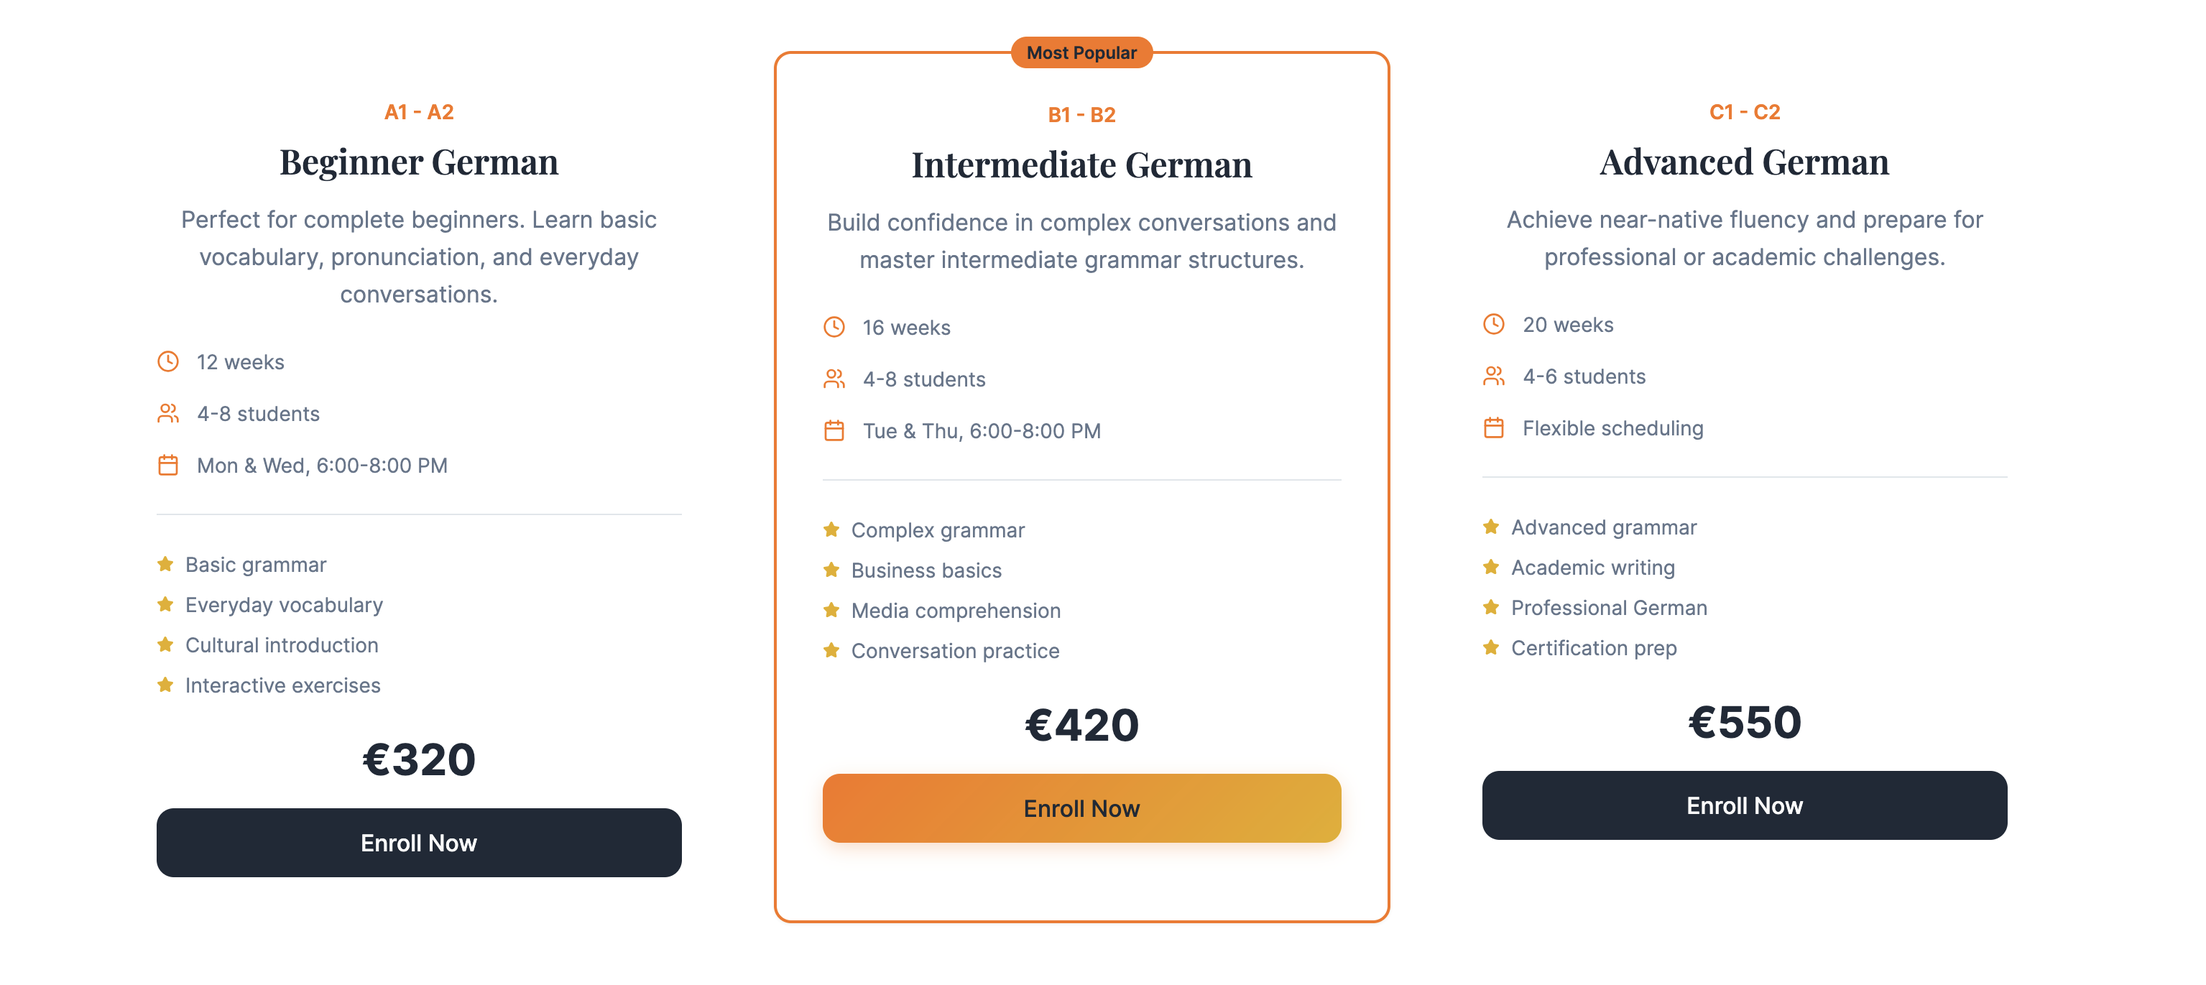
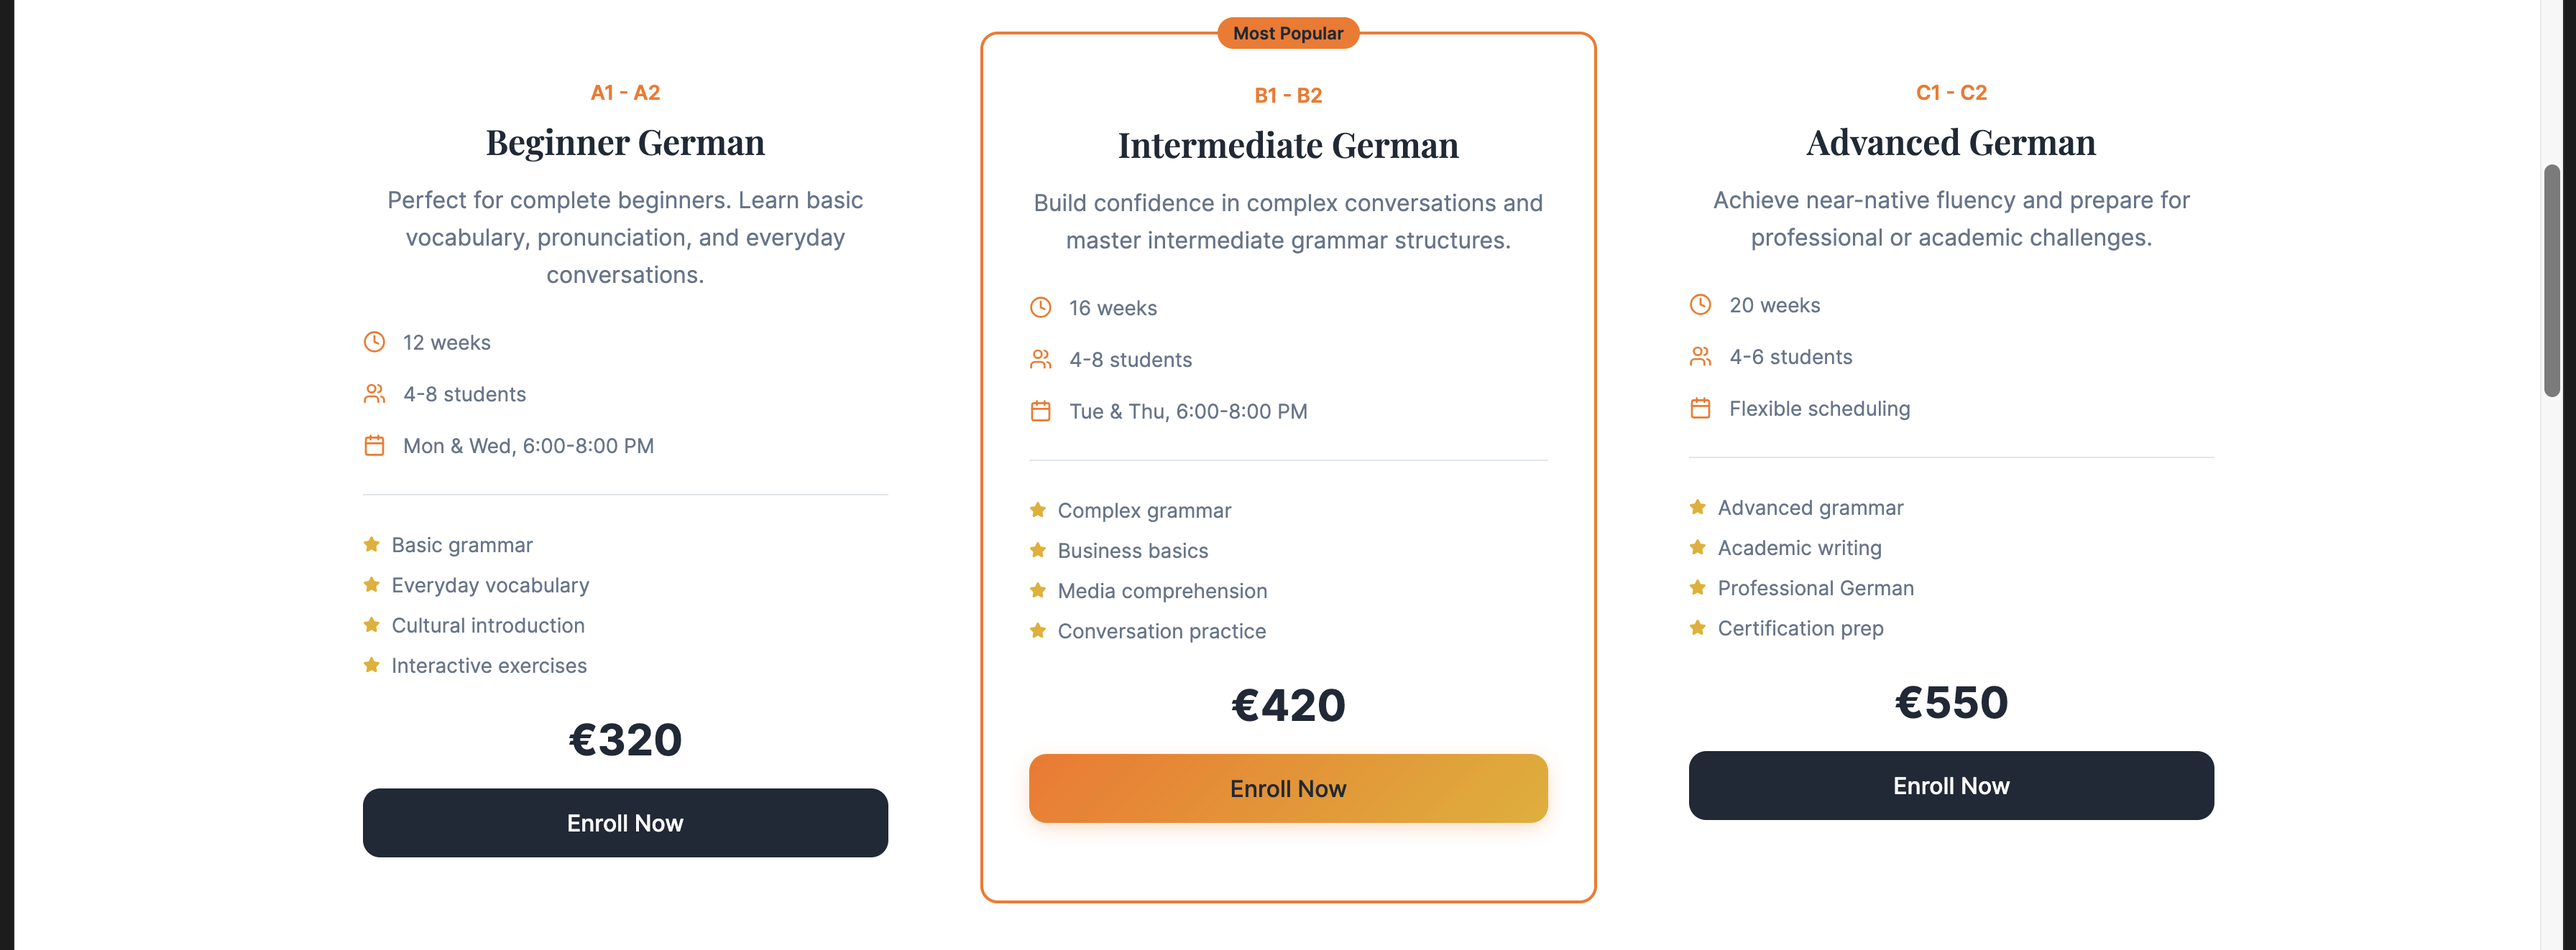
:Updated the html on course page

diff --git a/course.html b/course.html
@@ -39,6 +39,74 @@
             match your goals and schedule.</p>
         </p>
     </main>
+
+    <section class="pricing-section">
+        <h1 class="title">German Language Courses</h1>
+           <div class="pricing-cards"></div>
+             <!-- Beginner -->
+             <div class="card">
+                 <p class="level">A1 - A2</p>
+                 <h2>Beginner German</h2>
+                 <p class="desc">Perfect for complete beginners. Learn basic vocabulary, pronunciation, and everyday conversations.</p>
+                 <ul class="details">
+                 <li>🕓 12 weeks</li>
+                 <li>👥 4–8 students</li>
+                 <li>📅 Mon & Wed, 6:00–8:00 PM</li>
+                </ul>
+             <ul class="features">
+              <li>⭐ Basic grammar</li>
+              <li>⭐ Everyday vocabulary</li>
+              <li>⭐ Cultural introduction</li>
+              <li>⭐ Interactive exercises</li>
+             </ul>
+             <p class="price">€320</p>
+            <button class="enroll">Enroll Now</button>
+
+            <!-- Intermediate -->
+
+              <div class="card popular">
+                 <div class="badge">Most Popular</div>
+                    <p class="level">B1 - B2</p>
+                      <h2>Intermediate German</h2>
+                      <p class="desc">Build confidence in complex conversations and master intermediate grammar structures.</p>
+                         <ul class="details">
+                           <li>🕓 16 weeks</li>
+                           <li>👥 4–8 students</li>
+                           <li>📅 Tue & Thu, 6:00–8:00 PM</li>
+                         </ul>
+
+                         <ul class="features">
+                           <li>⭐ Complex grammar</li>
+                           <li>⭐ Business basics</li>
+                           <li>⭐ Media comprehension</li>
+                           <li>⭐ Conversation practice</li>
+                         </ul>
+                         <p class="price">€420</p>
+                         <button class="enroll highlight">Enroll Now</button>
+              </div>
+
+                 <!-- Advanced -->
+                <div class="card">
+                   <p class="level">C1 - C2</p>
+                     <h2>Advanced German</h2>
+                   <p class="desc">Achieve near-native fluency and prepare for professional or academic challenges.</p>
+                     <ul class="details">
+                       <li>🕓 20 weeks</li>
+                       <li>👥 4–6 students</li>
+                       <li>📅 Flexible scheduling</li>
+                     </ul>
+                        <ul class="features">
+                          <li>⭐ Advanced grammar</li>
+                          <li>⭐ Academic writing</li>
+                          <li>⭐ Professional German</li>
+                          <li>⭐ Certification prep</li>
+                        </ul>
+                    <p class="price">€550</p>
+                       <button class="enroll">Enroll Now</button>
+                 </div>
+
+             </div>
+    </section>
     
 </body>
 </html>

diff --git a/About.css b/About.css
@@ -363,10 +363,6 @@ main
   box-shadow: 0 6px 20px rgba(0, 0, 0, 0.1);
 }
 
-
-
-
-
 /* Icon Circle */
 .icon 
 {
@@ -396,8 +392,104 @@ p
   line-height: 1.6;
 }
 
-/* Responsive Layout */
+/* Footer styles */
+.site-footer {
+  background: #0f2236;
+  color: #fff;
+  padding: 2rem 1rem;
+  margin-top: 2.5rem;
+}
 
+.footer-inner {
+  max-width: 1100px;
+  margin: 0 auto;
+  display: flex;
+  flex-wrap: wrap;
+  gap: 1.25rem;
+  align-items: center;
+  justify-content: space-between;
+}
+
+.footer-brand {
+  display: flex;
+  align-items: center;
+  gap: 0.75rem;
+}
+
+.footer-logo {
+  height: 44px;
+  display: block;
+}
+
+.school-sub {
+  display: block;
+  font-size: 0.85rem;
+  color: #bcd9f0;
+  margin-top: -2px;
+}
+
+.footer-nav {
+  display: flex;
+  gap: 1rem;
+  flex-wrap: wrap;
+}
+
+.footer-nav a {
+  color: #cfe8f7;
+  text-decoration: none;
+  font-weight: 500;
+}
+
+.footer-nav a:hover {
+  text-decoration: underline;
+}
+
+.footer-contact {
+  display: flex;
+  flex-direction: column;
+  gap: 0.45rem;
+  align-items: flex-end;
+}
+
+.footer-contact a {
+  color: #e6f6ff;
+  text-decoration: none;
+  display: inline-flex;
+  gap: 0.5rem;
+  align-items: center;
+  font-size: 0.95rem;
+}
+
+.footer-contact .social {
+  margin-top: 0.25rem;
+}
+
+.footer-contact .social a {
+  color: #ffcc80;
+  margin-left: 0.5rem;
+  font-size: 1.05rem;
+}
+
+.footer-bottom {
+  text-align: center;
+  margin-top: 1rem;
+  color: #b9d8ee;
+}
+
+/* small screens: stack vertically */
+@media (max-width: 700px) {
+  .footer-inner {
+    flex-direction: column;
+    align-items: center;
+    text-align: center;
+  }
+  .footer-contact {
+    align-items: center;
+  }
+  .footer-nav {
+    justify-content: center;
+  }
+}
 
 /* Small screens */
 @media (max-width: 420px) 

diff --git a/About.html b/About.html
@@ -78,22 +78,22 @@
 
          <!-- ✅ Formspree Form  https://formspree.io/  https://formspree.io/f/mnqkyjvd    -->
 
-        <form action="https://formspree.io/f/mnqkyjvd" method="POST">
-         <label for="name">Full Name</label>
-           <input type="text" id="name" name="name" placeholder="Your name" required>
+           <form action="https://formspree.io/f/mnqkyjvd" method="POST">
+             <label for="name">Full Name</label>
+             <input type="text" id="name" name="name" placeholder="Your name" required>
 
-         <label for="email">Email Address</label>
-          <input type="email" id="email" name="email" placeholder="your@email.com" required>
+             <label for="email">Email Address</label>
+             <input type="email" id="email" name="email" placeholder="your@email.com" required>
 
-         <label for="phone">Phone Number</label>
-          <input type="tel" id="phone" name="phone" placeholder="+256 700 000 000" required>
+             <label for="phone">Phone Number</label>
+             <input type="tel" id="phone" name="phone" placeholder="+256 700 000 000" required>
 
-         <button type="submit" class="submit-btn">Submit</button>
-         </form>
+              <button type="submit" class="submit-btn">Submit</button>
+            </form>
 
-         <div id="form-success" class="success-e">
+          <div id="form-success" class="success-e">
            ✅ Thank you! Your message has been sent successfully.
-         </div>
+          </div>
         </div>
   </div>
 
@@ -160,6 +160,8 @@
     </section>
       -->   
          
+
+    
 
     <script src="About.js"></script>
 

diff --git a/contact.html b/contact.html
@@ -1,0 +1,15 @@
+<!DOCTYPE html>
+<html lang="en">
+<head>
+    <meta charset="UTF-8">
+    <meta name="viewport" content="width=device-width, initial-scale=1.0">
+    <title>>Die Brücke German Language School</title>
+     <link rel="stylesheet" href="contact.css">
+    <link rel="preconnect" href="https://fonts.googleapis.com">
+    <link rel="preconnect" href="https://fonts.gstatic.com" crossorigin>
+    <link href="https://fonts.googleapis.com/css2?family=Inter:wght@300;400;500;600;700&family=Playfair+Display:wght@400;500;600;700&display=swap" rel="stylesheet">
+</head>
+<body>
+    
+</body>
+</html>
